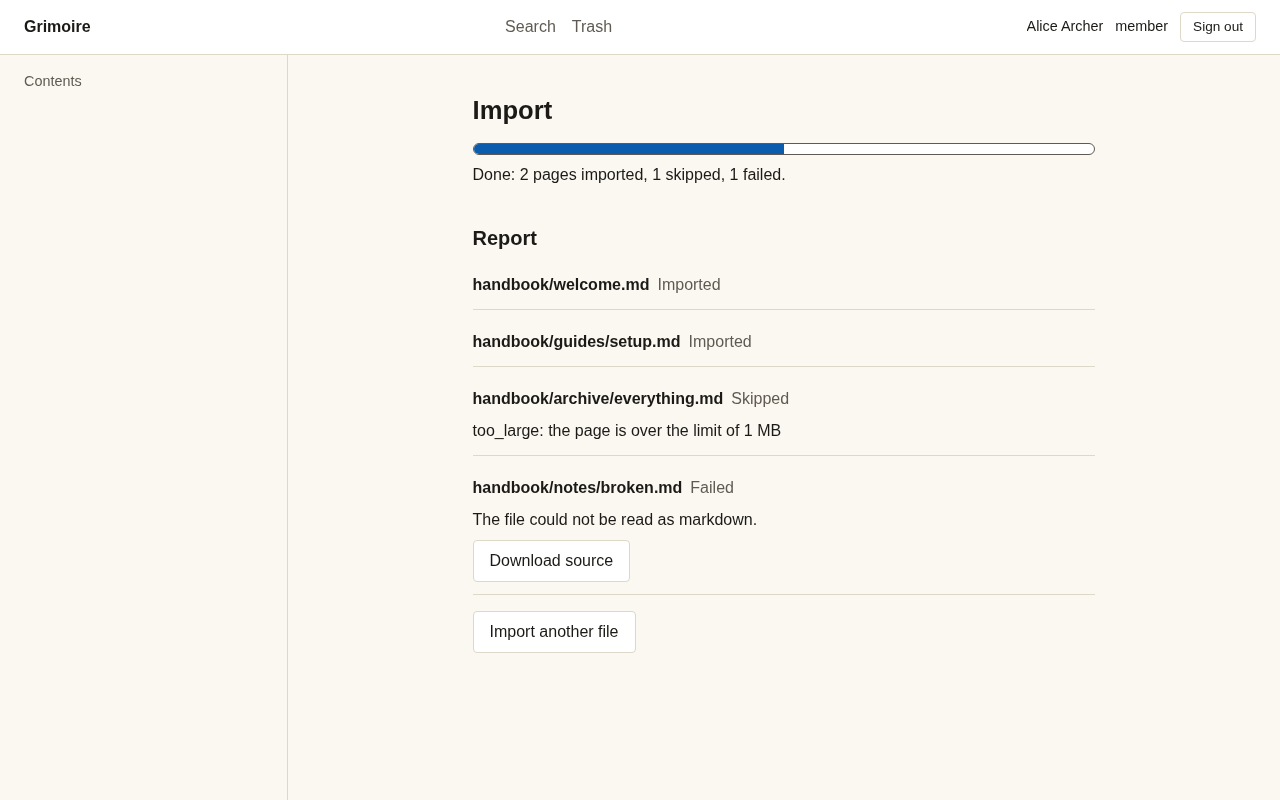
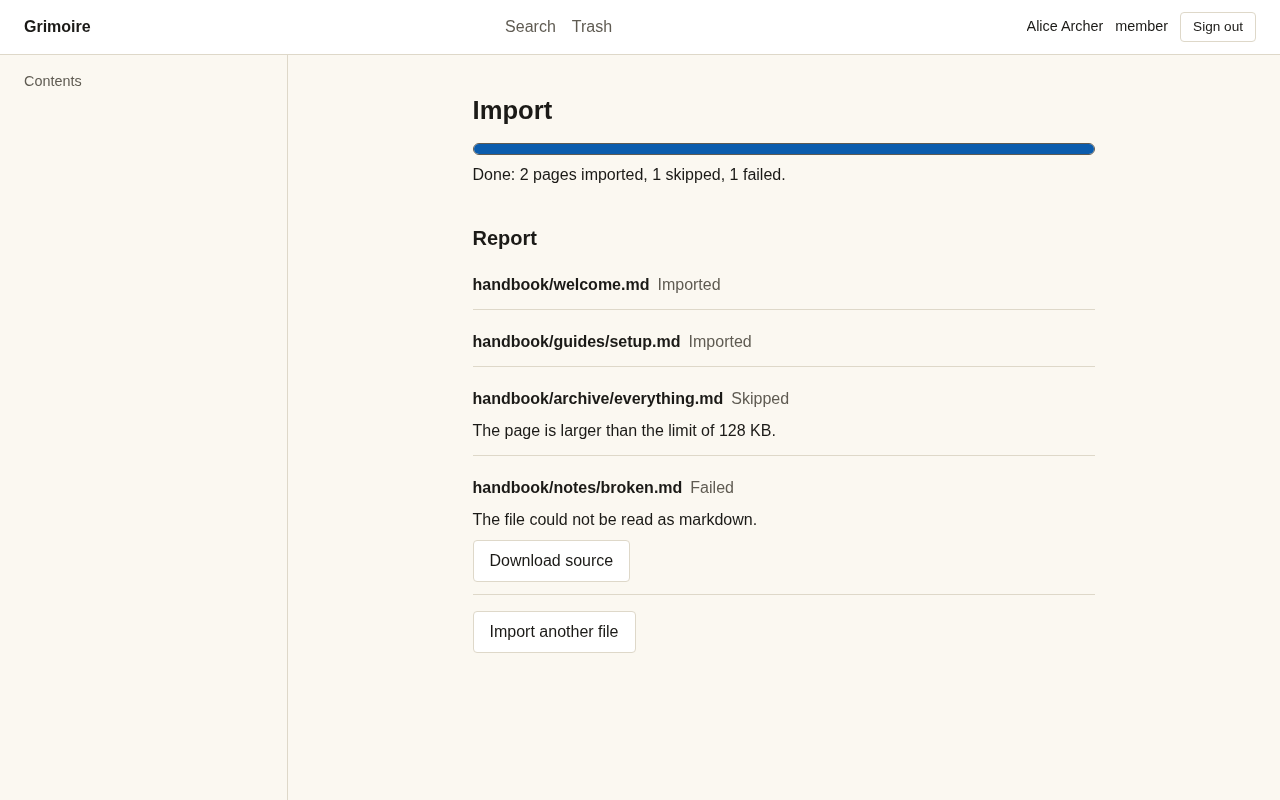
fix(web): the import report says why in words and never a code, a done import has a full bar, and a refused cancel is not said once the import has ended

Changed region(s): [[0.625, 0.1562, 0.8438, 0.2188], [0.375, 0.5312, 0.625, 0.5625]]

diff --git a/apps/web/test/import/import.test.tsx b/apps/web/test/import/import.test.tsx
@@ -374,7 +374,8 @@ describe('the report of an ended import', () => {
         .getAllByRole('listitem')
         .map((li) => li.getAttribute('data-status')),
     ).toEqual(['imported', 'skipped', 'failed']);
-    expect(list.textContent).toContain('too_large: over the limit of 1 MB');
+    expect(list.textContent).toContain('over the limit of 1 MB');
+    expect(list.textContent).not.toContain('too_large');
     expect(list.textContent).toContain('<b>bold</b>.md');
     expect(list.textContent).toContain('<img src=x onerror=alert(1)>');
     expect(list.querySelector('b, img')).toBeNull();
@@ -449,6 +450,55 @@ describe('a report that is not shaped as the contract says', () => {
     show(t.api, '/import?import=imp1');
     expect((await screen.findByRole('alert')).textContent).toContain('The report can’t be read right now.');
     expect(screen.queryByRole('listitem')).toBeNull();
+  });
+});
+
+describe('what a person is told about a file', () => {
+  const reasons = (messages: (string | null)[], status: ImportItem['status'] = 'skipped') => fake({ states: [ended()], items: [messages.map((message, n) => item({ id: `r${String(n)}`, status, message }))] });
+
+  it('shows the words the server gave, without the code in front of them, and the limit as the server named it', async () => {
+    show(reasons(['too_large: The page is larger than the limit of 128 KB.', 'tenant-pages-full: The workspace has reached its limit of 10000 pages.']).api, '/import?import=imp1');
+    const list = await screen.findByRole('list', { name: 'Files of the import' });
+    await waitFor(() => expect(within(list).getAllByRole('listitem')).toHaveLength(2));
+    expect(list.textContent).toContain('The page is larger than the limit of 128 KB.');
+    expect(list.textContent).toContain('The workspace has reached its limit of 10000 pages.');
+    expect(list.textContent).not.toMatch(/too_large|tenant-pages-full/);
+  });
+
+  it('puts a reason that is only a code into words, a code it does not know and a missing reason into the words of the status, and never shows a code', async () => {
+    show(reasons(['too_large', 'tenant-storage-full', 'collection_full', 'some_new_code', null]).api, '/import?import=imp1');
+    const list = await screen.findByRole('list', { name: 'Files of the import' });
+    await waitFor(() => expect(within(list).getAllByRole('listitem')).toHaveLength(5));
+    const texts = within(list)
+      .getAllByRole('listitem')
+      .map((li) => li.querySelector('.import-report-message')?.textContent?.trim());
+    expect(texts).toEqual(['The page is larger than the limit for a page.', 'The workspace has run out of storage.', 'The collection is full.', 'The file was left out.', 'The file was left out.']);
+    expect(list.textContent).not.toMatch(/too_large|tenant-storage-full|collection_full|some_new_code/);
+  });
+});
+
+describe('the progress bar of an ended import', () => {
+  it('is full for an import that is done, with the skipped and the failed counted as handled', async () => {
+    show(fake({ states: [ended({ done: 2, total: 4, counts: { pagesTotal: 4, pagesDone: 2, attachments: 0, skipped: 1, failed: 1 } })] }).api, '/import?import=imp1');
+    await waitFor(() => expect(screen.getByRole('progressbar').getAttribute('aria-valuenow')).toBe('100'));
+  });
+
+  it('counts the skipped and the failed as handled while it runs, and shows how far a cancelled import got', async () => {
+    show(fake({ states: [state({ done: 2, total: 10, counts: { pagesTotal: 10, pagesDone: 2, attachments: 0, skipped: 1, failed: 1 } })] }).api, '/import?import=imp1');
+    await waitFor(() => expect(screen.getByRole('progressbar').getAttribute('aria-valuenow')).toBe('40'));
+    cleanup();
+    show(fake({ states: [state({ status: 'cancelled', done: 3, total: 10 })] }).api, '/import?import=imp1');
+    await waitFor(() => expect(screen.getByRole('progressbar').getAttribute('aria-valuenow')).toBe('30'));
+  });
+});
+
+describe('a cancel that was refused', () => {
+  it('is not said once the import has ended, which the read after the refusal shows', async () => {
+    const t = fake({ states: [state(), ended()], cancel: { status: 500 } });
+    show(t.api, '/import?import=imp1');
+    await userEvent.click(await screen.findByRole('button', { name: 'Cancel import' }));
+    await waitFor(() => expect(screen.getByRole('status').textContent).toContain('Done'));
+    expect(screen.queryByText('The import could not be cancelled. Try again.')).toBeNull();
   });
 });
 
@@ -710,5 +760,18 @@ describe('the progress of an import', () => {
       path === '/v1/imports/{id}' ? { error: {}, response: new Response(null, { status: 404 }) } : { data: path === '/v1/me' ? { role: 'member' } : { items: COLLECTIONS }, response: new Response(null, { status: 200 }) };
     show(t.api, '/import?import=gone');
     expect((await screen.findByRole('alert')).textContent).toContain('That import can’t be read.');
+  });
+});
+
+describe('a failed file with no reason', () => {
+  it('says in words that it could not be imported', async () => {
+    show(fake({ states: [ended()], items: [[item({ id: 'z', status: 'failed', message: 'internal_error' }), item({ id: 'y', status: 'failed', message: null })]] }).api, '/import?import=imp1');
+    const list = await screen.findByRole('list', { name: 'Files of the import' });
+    await waitFor(() => expect(within(list).getAllByRole('listitem')).toHaveLength(2));
+    expect(
+      within(list)
+        .getAllByRole('listitem')
+        .map((li) => li.querySelector('.import-report-message')?.textContent?.trim()),
+    ).toEqual(['The file could not be imported.', 'The file could not be imported.']);
   });
 });

diff --git a/apps/web/src/screens/import/messages.ts b/apps/web/src/screens/import/messages.ts
@@ -1,5 +1,5 @@
 import { ImportError } from '../../import/api';
-import type { ImportState } from '../../import/types';
+import type { ImportItem, ImportState } from '../../import/types';
 
 /** What the person is told when a step of starting an import is refused. */
 export function refusal(error: unknown): string {
@@ -19,10 +19,40 @@ export function refusal(error: unknown): string {
   return 'The import could not be started. Try again.';
 }
 
-/** The share of the pages done, a whole number from 0 to 100 (0 while the count of pages is not known). */
+/** The share of the pages handled (imported, skipped or failed), a whole number from 0 to 100 (0 while the count of pages is not known). */
 export function percent(counts: ImportState['counts']): number {
   if (counts.pagesTotal <= 0) return 0;
-  return Math.min(100, Math.max(0, Math.round((counts.pagesDone / counts.pagesTotal) * 100)));
+  return Math.min(100, Math.max(0, Math.round(((counts.pagesDone + counts.skipped + counts.failed) / counts.pagesTotal) * 100)));
+}
+
+/** What the bar shows: full for an import that is done (every page was handled, one way or another), how far it got for the others. */
+export const barValue = (state: ImportState): number => (state.status === 'done' ? 100 : percent(state.counts));
+
+const FALLBACK: Record<'skipped' | 'failed', string> = { skipped: 'The file was left out.', failed: 'The file could not be imported.' };
+const CODE = /^[a-z][a-z0-9]*(?:[_-][a-z0-9]+)+/;
+const CODE_WORDS: Record<string, string> = {
+  too_large: 'The page is larger than the limit for a page.',
+  'tenant-pages-full': 'The workspace has reached its limit of pages.',
+  'tenant-storage-full': 'The workspace has run out of storage.',
+  collection_full: 'The collection is full.',
+};
+
+/**
+ * The reason a file was skipped or failed, in words. The server's message is text for people and may start with the code of the reason ("too_large: The page is larger than..."): the code is left out,
+ * and the words after it (which name the limit, as the server has it) are kept. A message that is only a code has words of its own here; a code this screen does not know and a missing message have
+ * the words of the status. A code is never shown.
+ */
+export function reasonText(item: Pick<ImportItem, 'status' | 'message'>): string | null {
+  if (item.status === 'imported') return item.message;
+  const message = item.message?.trim() ?? '';
+  const code = CODE.exec(message)?.[0];
+  if (code === undefined) return message === '' ? FALLBACK[item.status] : message;
+  const rest = message
+    .slice(code.length)
+    .replace(/^\s*:\s*/, '')
+    .trim();
+  if (rest !== '' && !CODE.test(rest)) return rest;
+  return CODE_WORDS[code] ?? FALLBACK[item.status];
 }
 
 const pages = (n: number): string => `${String(n)} ${n === 1 ? 'page' : 'pages'}`;

diff --git a/apps/web/test-e2e/import/import.spec.ts b/apps/web/test-e2e/import/import.spec.ts
@@ -17,7 +17,7 @@ async function open(page: Page, context: Parameters<typeof signInAs>[0], states:
 const FILES: readonly ScriptedItem[] = [
   { id: 'i1', path: 'docs/welcome.md', status: 'imported' },
   { id: 'i2', path: 'docs/guide/setup.md', status: 'imported' },
-  { id: 'i3', path: 'docs/big.md', status: 'skipped', message: 'too_large: the page is over the limit of 1 MB' },
+  { id: 'i3', path: 'docs/big.md', status: 'skipped', message: 'too_large: The page is larger than the limit of 128 KB.' },
   { id: 'i4', path: 'docs/<b>odd</b>.md', status: 'failed', message: 'The file could not be read as markdown.', hasSource: true },
 ];
 
@@ -36,9 +36,11 @@ test('a small zip imports, and the report has one row for each file, with the re
   await expect(page.getByRole('status').first()).toHaveText('Done: 2 pages imported, 1 skipped, 1 failed.');
   const rows = page.getByRole('list', { name: 'Files of the import' }).getByRole('listitem');
   await expect(rows).toHaveCount(FILES.length);
-  await expect(rows.nth(2)).toContainText('too_large: the page is over the limit of 1 MB');
+  await expect(rows.nth(2)).toContainText('The page is larger than the limit of 128 KB.');
+  await expect(rows.nth(2)).not.toContainText('too_large'); // the words, never the code
   await expect(rows.nth(3)).toContainText('docs/<b>odd</b>.md'); // text, not markup
   await expect(page.locator('.import-report-list b')).toHaveCount(0);
+  await expect(page.getByRole('progressbar')).toHaveAttribute('aria-valuenow', '100'); // done: every page was handled, the skipped and the failed too
   expect(sent.starts).toBe(1);
 });
 

diff --git a/apps/web/src/screens/import/index.tsx b/apps/web/src/screens/import/index.tsx
@@ -14,6 +14,7 @@ import './import.css';
 /** The import of a zip into a collection (R11.3). Only for people who can write: a viewer gets the not-found screen, and nothing about imports is asked of the API before it is known who they are. */
 export default function ImportScreen() {
   const api = useApi();
+  const [params] = useSearchParams();
   const me = useApiQuery<{ role: 'admin' | 'member' | 'viewer' }>(api, '/v1/me');
   if (me.isError && me.data === undefined) {
     return (
@@ -24,7 +25,7 @@ export default function ImportScreen() {
   }
   if (me.data === undefined) return <p>Loading</p>;
   if (me.data.role === 'viewer') return <NotFoundScreen />;
-  return <Importing />;
+  return <Importing key={params.get('import') ?? ''} />;
 }
 
 function Importing() {
@@ -75,7 +76,7 @@ function Importing() {
               Cancel import
             </Button>
           ) : null}
-          {cancelFailed ? <p role="alert">The import could not be cancelled. Try again.</p> : null}
+          {cancelFailed && state.data.status === 'running' ? <p role="alert">The import could not be cancelled. Try again.</p> : null}
           {ENDED.includes(state.data.status) && id !== null ? <Report api={api} id={id} /> : null}
           {state.data.status === 'running' || state.data.status === 'created' || state.data.status === 'uploaded' ? null : (
             <Button

diff --git a/apps/web/src/screens/import/Report.tsx b/apps/web/src/screens/import/Report.tsx
@@ -4,6 +4,7 @@ import type { ImportItem } from '../../import/types';
 import type { ApiLike } from '../../api/query';
 import { isSafeHref } from '../../safety';
 import { Button } from '../../ui/primitives';
+import { reasonText } from './messages';
 
 const STATUS: Record<ImportItem['status'], string> = { imported: 'Imported', skipped: 'Skipped', failed: 'Failed' };
 
@@ -43,7 +44,7 @@ export function Report({ api, id }: { readonly api: ApiLike; readonly id: string
         {report.items.map((item) => (
           <li key={item.id} data-status={item.status}>
             <span className="import-report-path">{item.path}</span> <span className="import-report-status">{STATUS[item.status]}</span>
-            {item.message === null ? null : <span className="import-report-message"> {item.message}</span>}
+            {reasonText(item) === null ? null : <span className="import-report-message"> {reasonText(item)}</span>}
             {item.status === 'failed' && item.hasSource ? (
               <Button
                 aria-label={`Download source of ${item.path}`}

diff --git a/apps/web/test-e2e/import/screenshots.spec.ts b/apps/web/test-e2e/import/screenshots.spec.ts
@@ -32,7 +32,7 @@ test('the import screen at 40 percent', async ({ page, context, browserName }) =
 const REPORT: readonly ScriptedItem[] = [
   { id: 'i1', path: 'handbook/welcome.md', status: 'imported' },
   { id: 'i2', path: 'handbook/guides/setup.md', status: 'imported' },
-  { id: 'i3', path: 'handbook/archive/everything.md', status: 'skipped', message: 'too_large: the page is over the limit of 1 MB' },
+  { id: 'i3', path: 'handbook/archive/everything.md', status: 'skipped', message: 'too_large: The page is larger than the limit of 128 KB.' },
   { id: 'i4', path: 'handbook/notes/broken.md', status: 'failed', message: 'The file could not be read as markdown.', hasSource: true },
 ];
 

diff --git a/apps/web/src/screens/import/Progress.tsx b/apps/web/src/screens/import/Progress.tsx
@@ -1,9 +1,9 @@
 import type { ImportState } from '../../import/types';
-import { percent, stateLine } from './messages';
+import { barValue, stateLine } from './messages';
 
 /** Where an import is: a progress bar with its value, and the line that says it in words. */
 export function Progress({ state }: { readonly state: ImportState }) {
-  const value = percent(state.counts);
+  const value = barValue(state);
   return (
     <div className="import-progress">
       <div className="import-bar" role="progressbar" aria-label="Import progress" aria-valuemin={0} aria-valuemax={100} aria-valuenow={value} aria-valuetext={`${String(value)} percent`}>

diff --git a/apps/web/test-e2e/import/axe.spec.ts b/apps/web/test-e2e/import/axe.spec.ts
@@ -14,7 +14,7 @@ const STATES: readonly [string, ScriptedState][] = [
 
 const REPORT: readonly ScriptedItem[] = [
   { id: 'i1', path: 'docs/welcome.md', status: 'imported' },
-  { id: 'i2', path: 'docs/big.md', status: 'skipped', message: 'too_large: the page is over the limit of 1 MB' },
+  { id: 'i2', path: 'docs/big.md', status: 'skipped', message: 'too_large: The page is larger than the limit of 128 KB.' },
   { id: 'i3', path: 'docs/odd.md', status: 'failed', message: 'The file could not be read as markdown.', hasSource: true },
 ];
 
